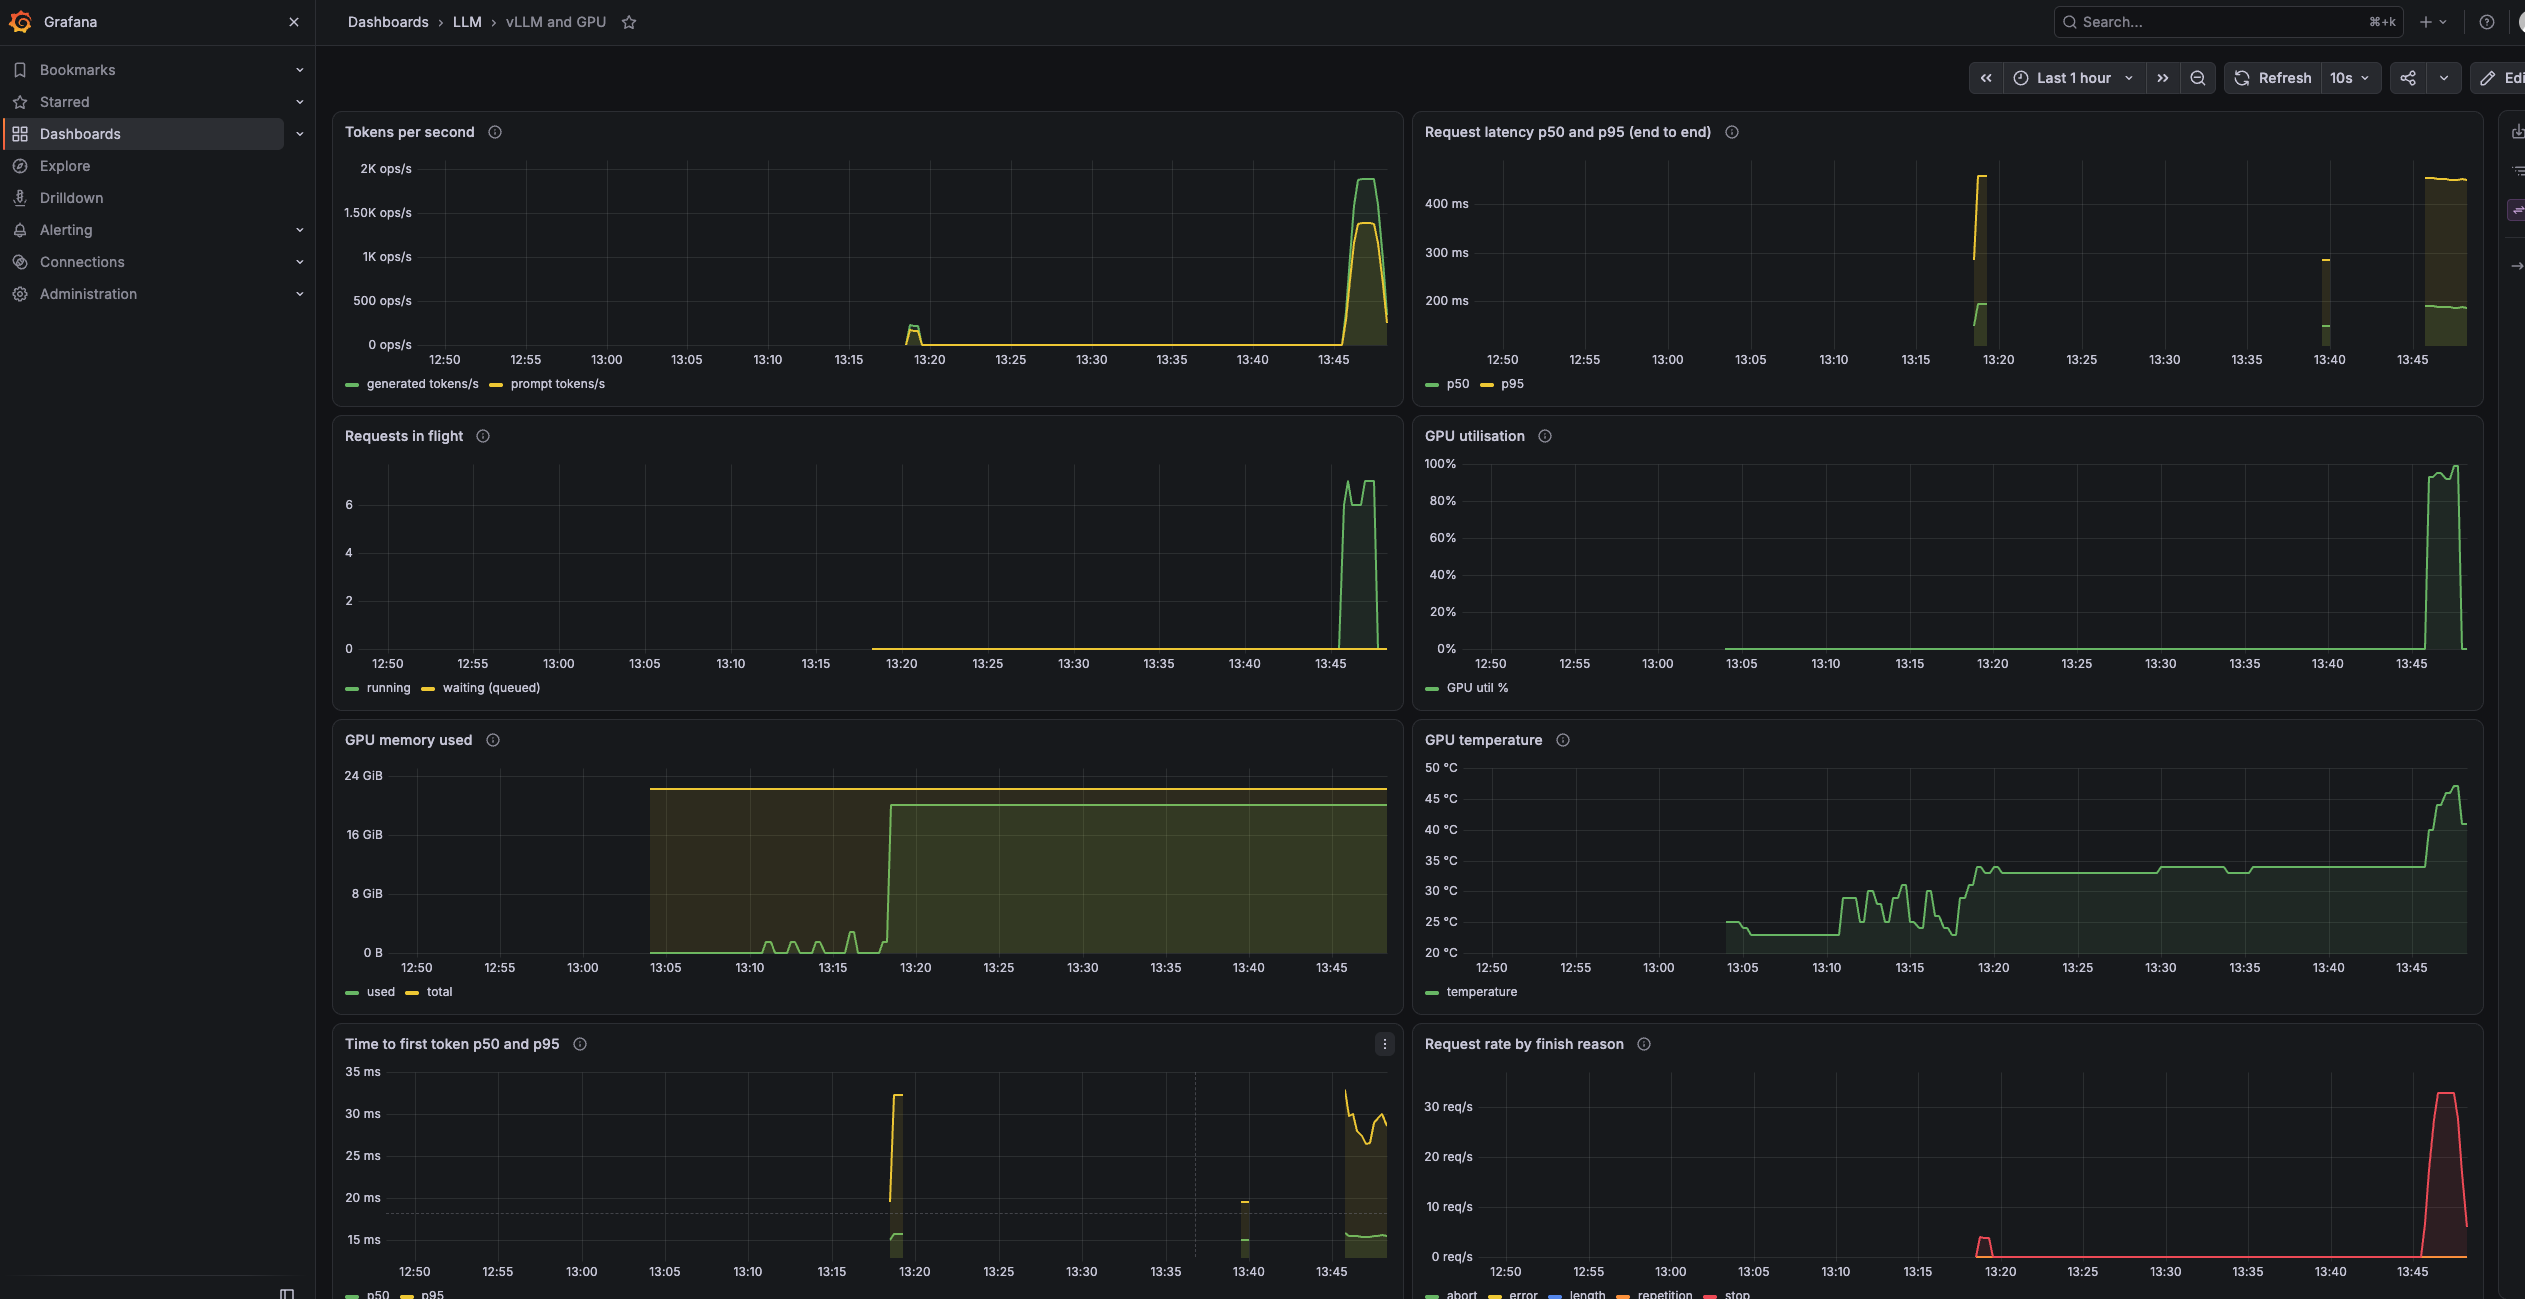
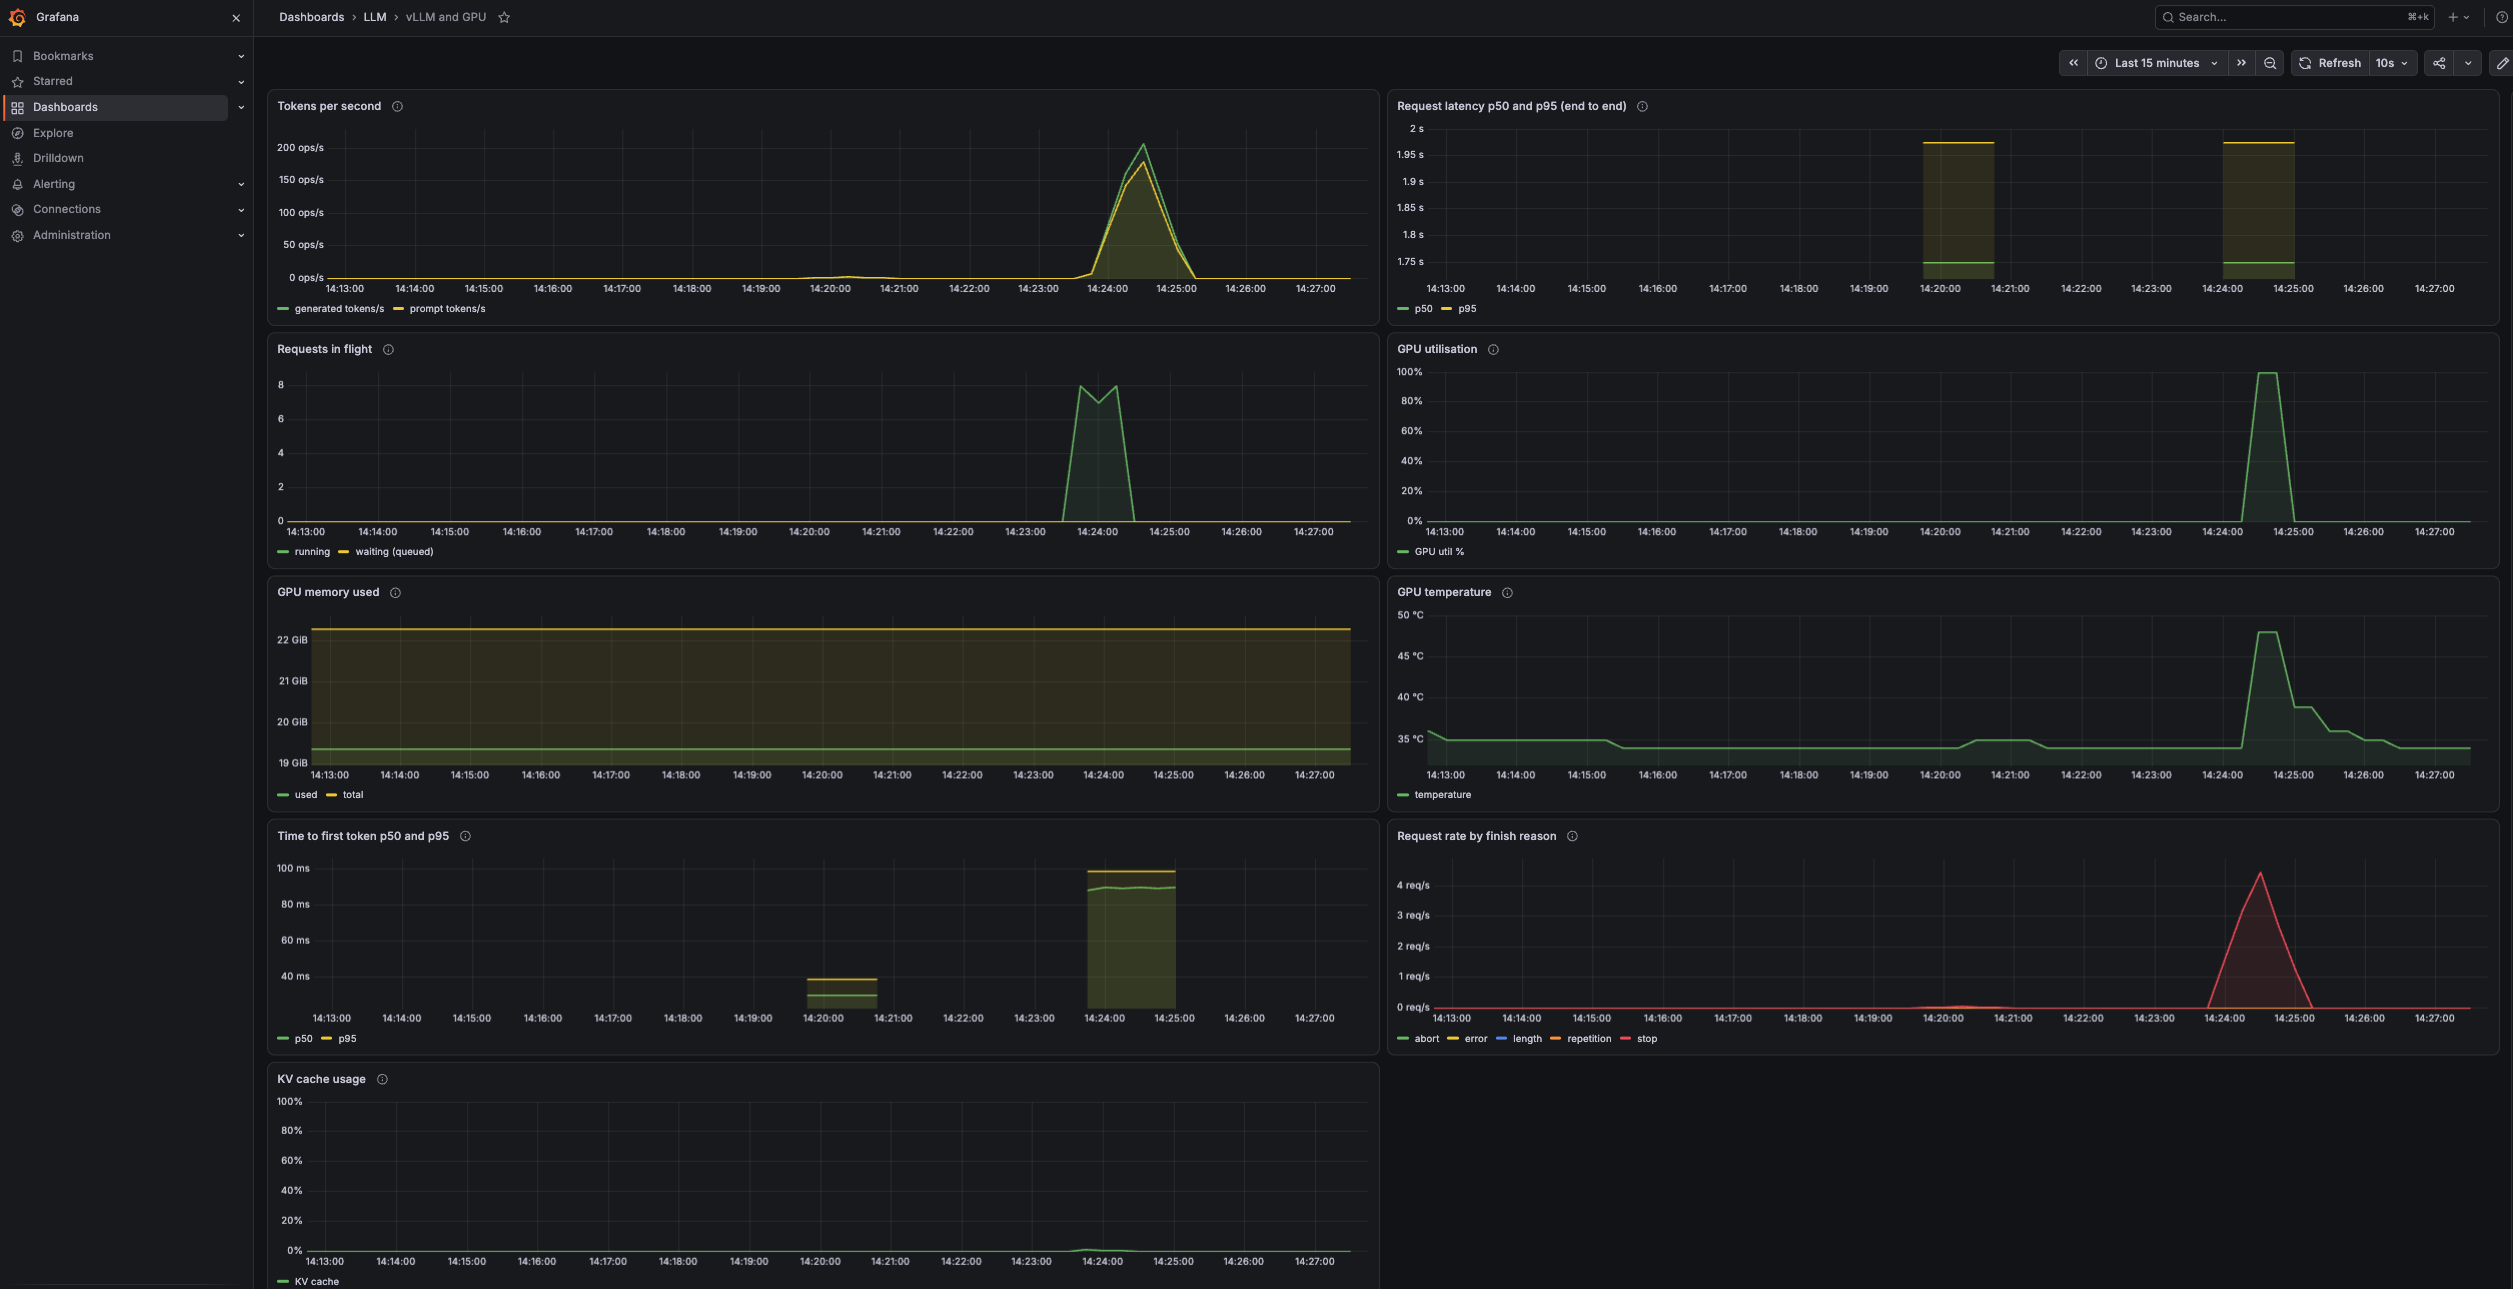
Replace Grafana screenshot with the 7B run; update README caption and evidence

diff --git a/README.md b/README.md
@@ -56,7 +56,7 @@ Load test from a pod in the cluster, through the internal ALB, 128 max output to
 
 GPU memory in use: 19.8 GiB of 22.5 GiB. Raw output: [docs/evidence/phase5-7b-and-loadtest.txt](docs/evidence/phase5-7b-and-loadtest.txt). Proof the GPU runs: [docs/evidence/phase3-nvidia-smi.txt](docs/evidence/phase3-nvidia-smi.txt).
 
-Grafana dashboard under load (tokens/s, latency p50 and p95, requests in flight, GPU utilisation, GPU memory). This screenshot was taken during an earlier run with a smaller 0.5B model:
+Grafana dashboard during the 200-request run on the 7B model (about 14:24): requests in flight reach 8, GPU utilisation hits 100%, GPU memory stays at about 19 GiB, latency p50 and p95 are about 1.75 s and 1.97 s, temperature peaks at 48 °C.
 
 ![Grafana dashboard under load](docs/evidence/grafana-dashboard-under-load.png)
 
